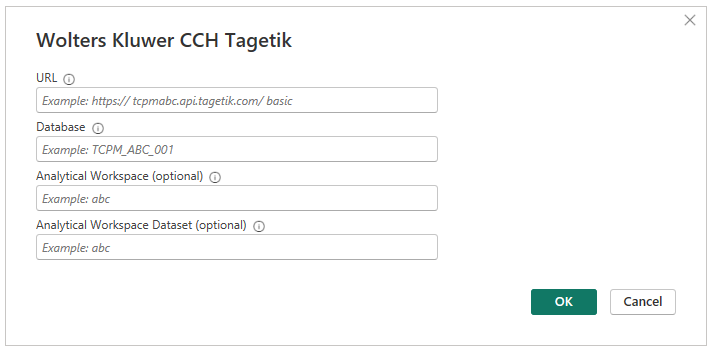
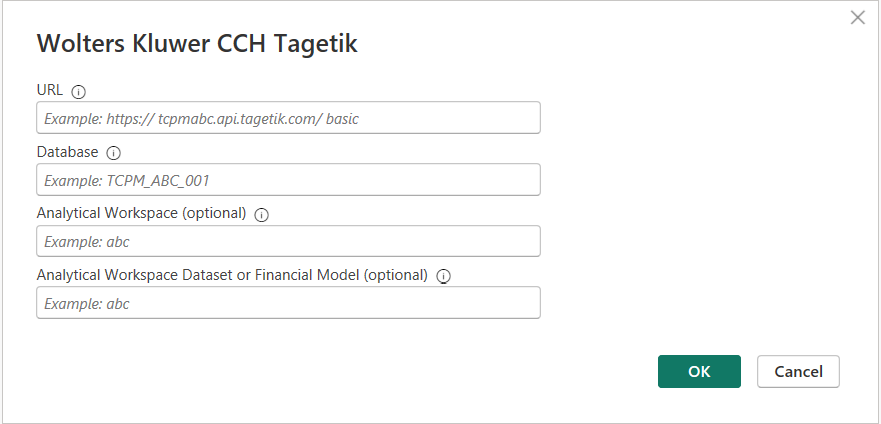
2024/10/18 - Wolters Kluwer CCH Tagetik Power BI connector - Documentation - Release 1.1.0

diff --git a/powerquery-docs/connectors/wolters-kluwer-cch-tagetik.md b/powerquery-docs/connectors/wolters-kluwer-cch-tagetik.md
@@ -46,7 +46,7 @@ To connect to Wolters Kluwer CCH Tagetik data:
    * **URL** is your Wolters Kluwer CCH Tagetik environment endpoint.
    * **Database** is the code of the database.
    * **Analytical Workspace** (optional) is the code of the analytical workspace.
-   * **Analytical Workspace Dataset** (optional) is the code of the analytical workspace dataset.
+   * **Analytical Workspace Dataset or Financial Model** (optional) is the code of the analytical workspace dataset or the code of the financial model.
 
    :::image type="content" source="./media/wolters-kluwer-cch-tagetik/window-parameters.png" alt-text="Screenshot of the Wolters Kluwer CCH Tagetik connector parameter dialog.":::
 
